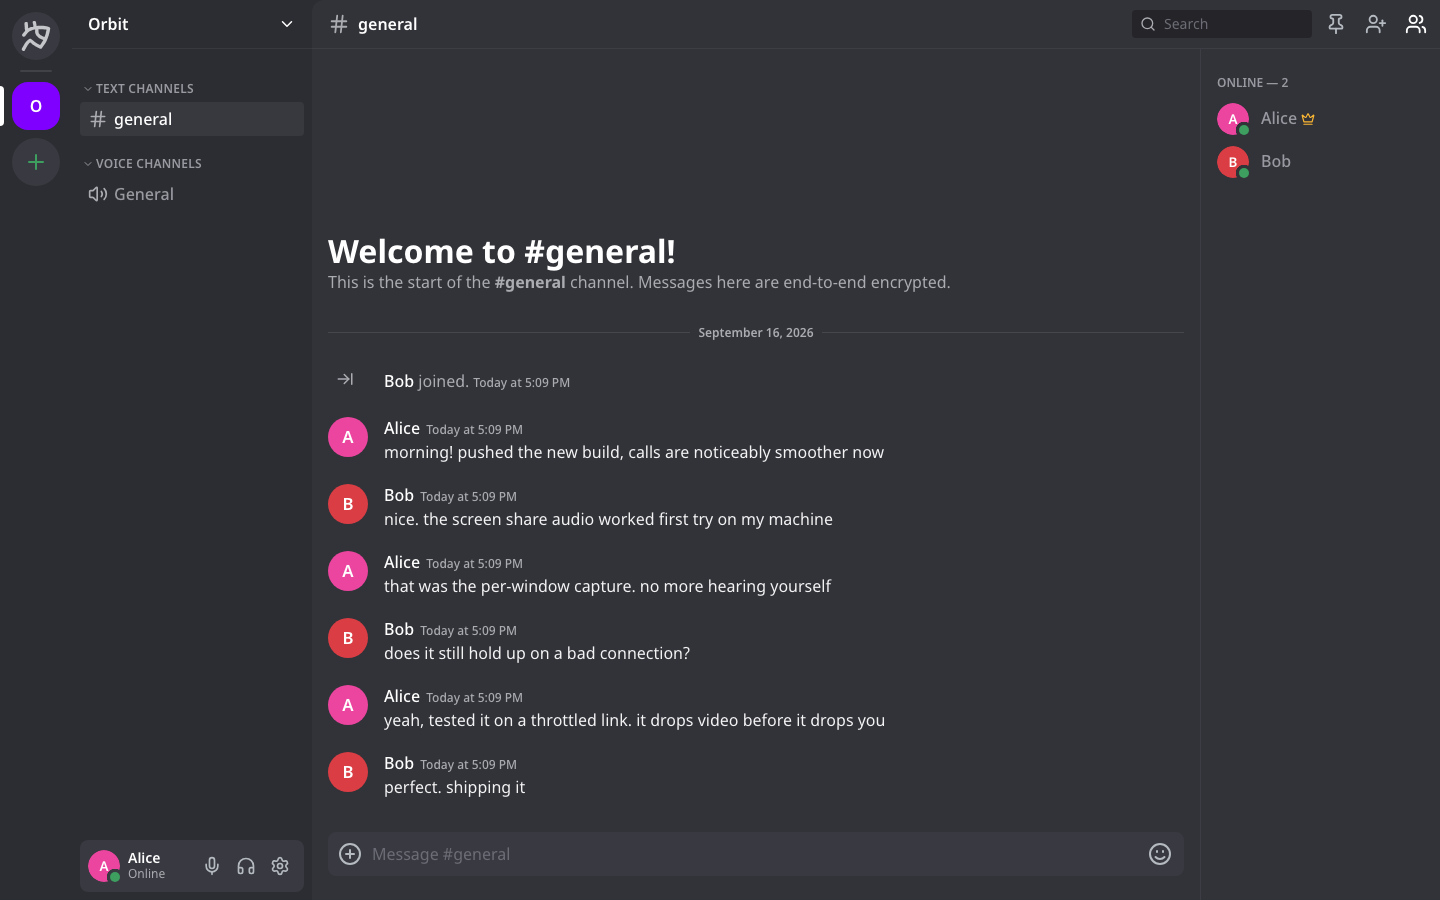
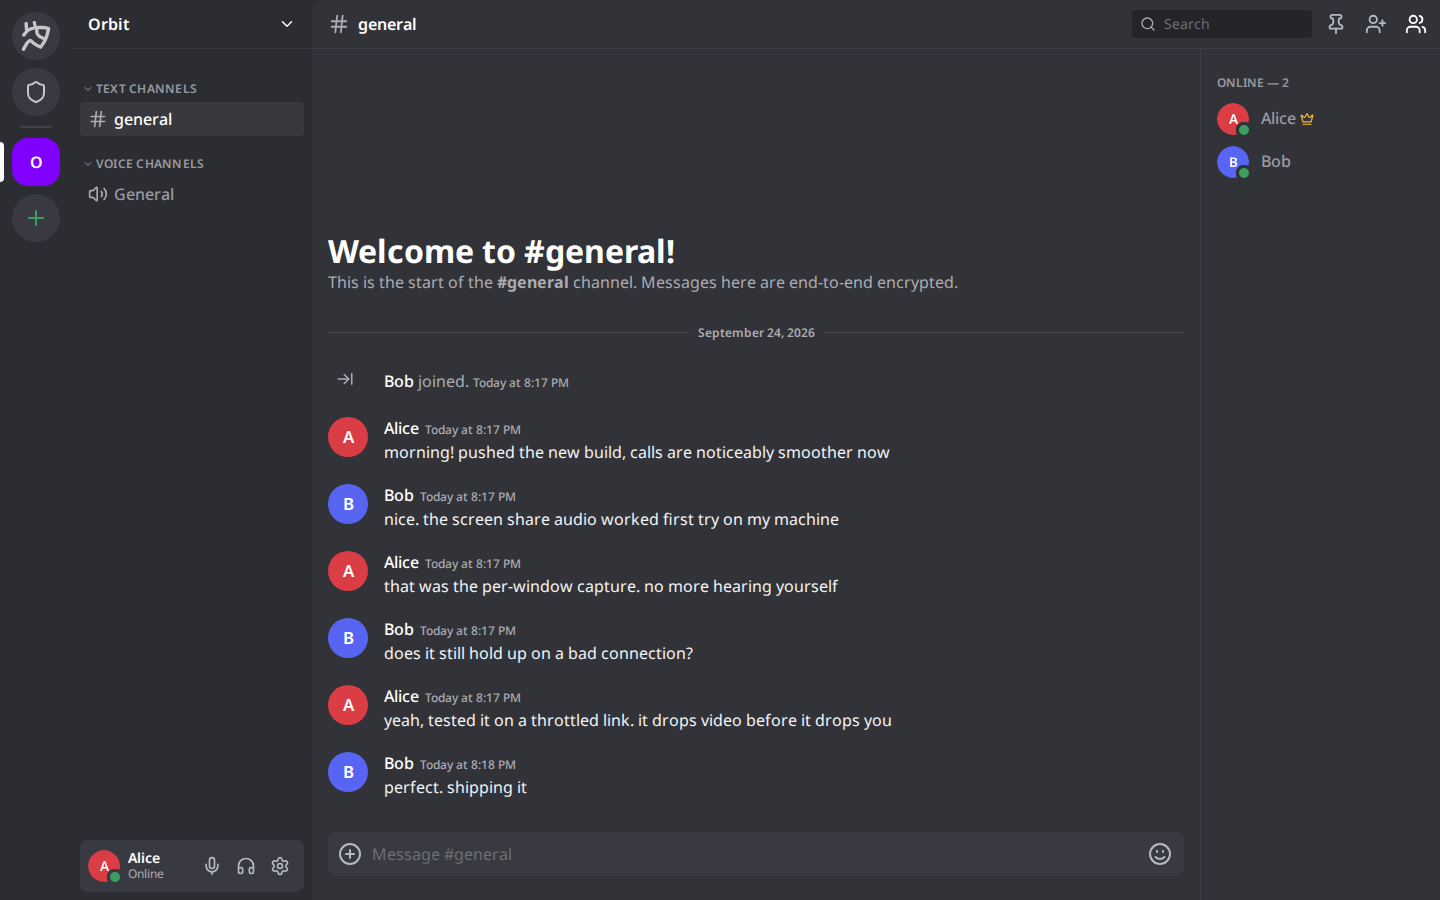
Retake the front page's pictures from the app as it is now
The picker's picture no longer has chat text cut off at its edge, and the
call's waits for the call to connect whatever case its label is in.

Claude-Session: https://claude.ai/code/session_01B3Bm84hfVCBMucnToNupUG

diff --git a/tools/home_shots.py b/tools/home_shots.py
@@ -126,7 +126,7 @@ def main() -> int:
             # wait for the two of them to actually be connected to each other,
             # so the picture is a call rather than a call starting
             a.wait_for_function(
-                "() => !document.body.innerText.includes('connecting')",
+                "() => !/connecting/i.test(document.body.innerText)",
                 timeout=30000,
             )
             a.mouse.move(400, 500)
